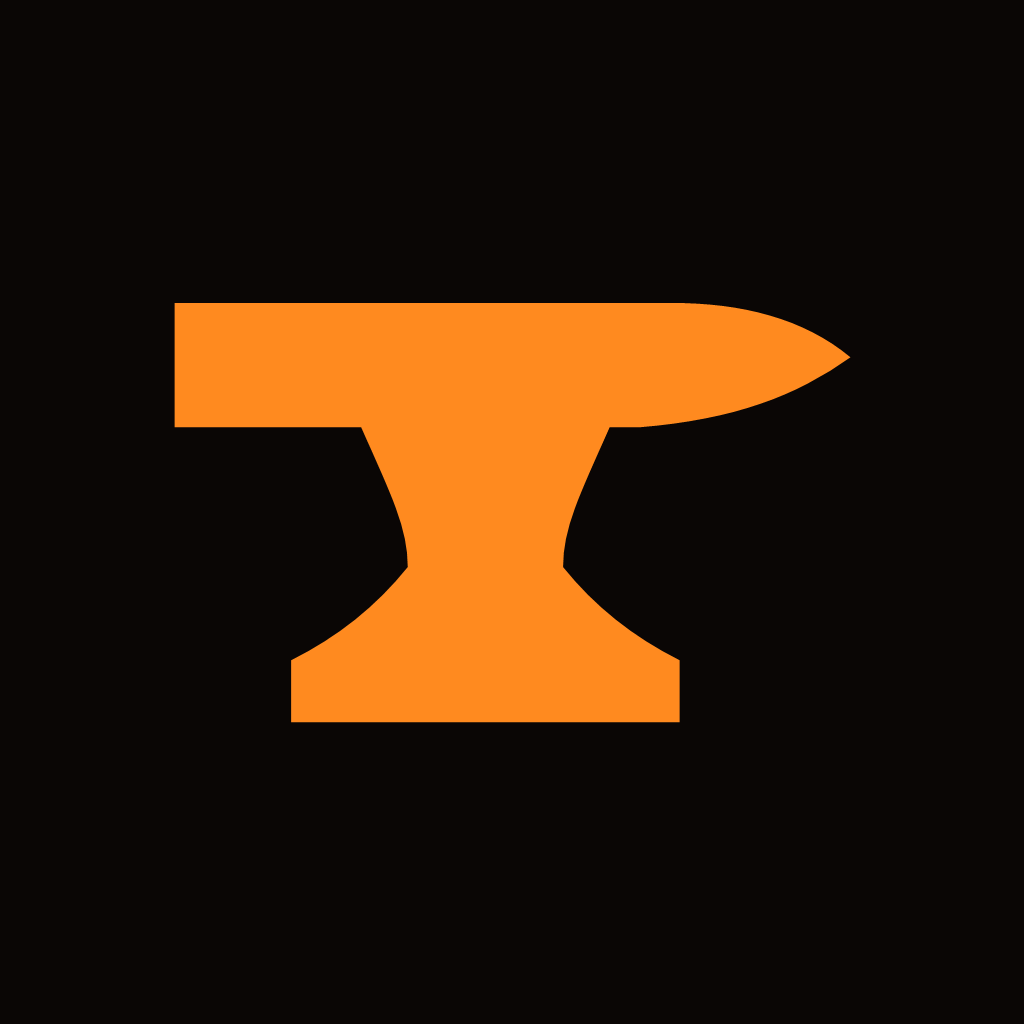
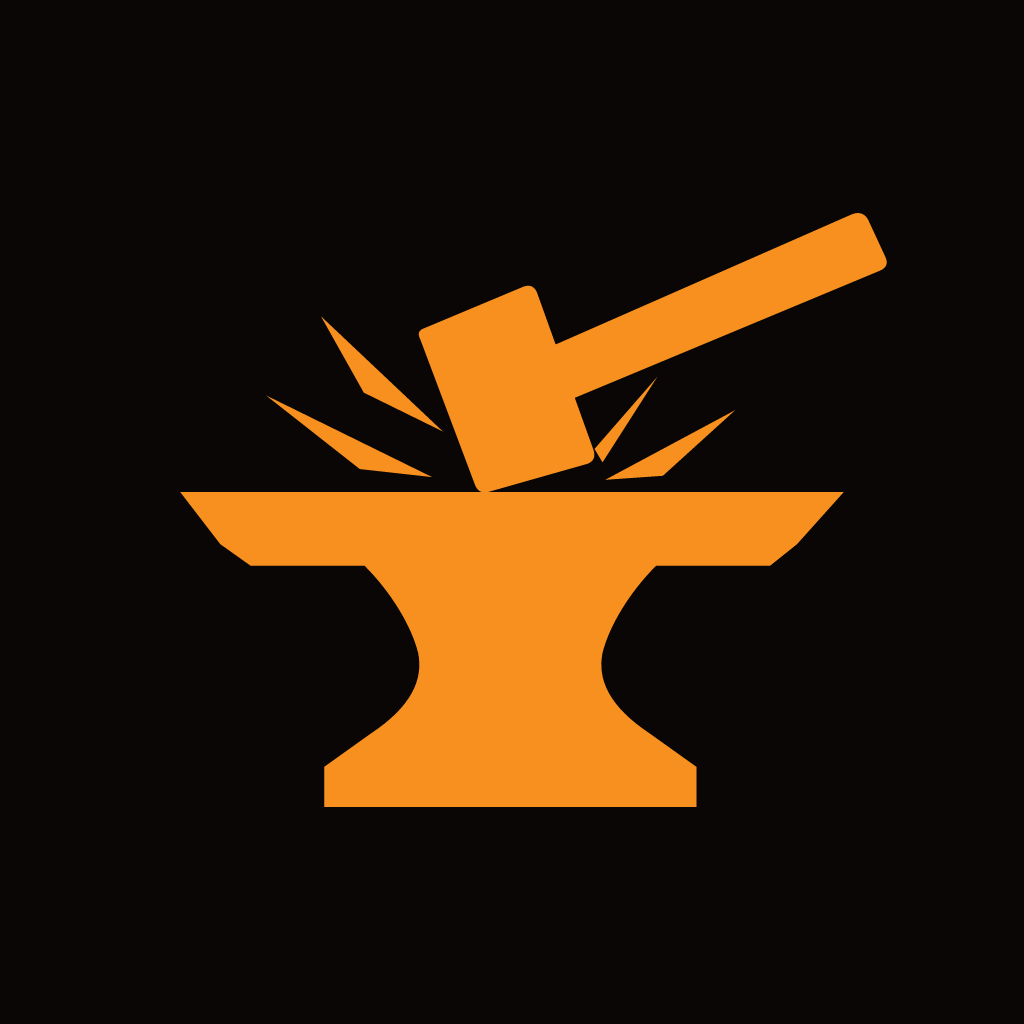
v5.102 - the owner's hammer-and-anvil mark, everywhere the app draws itself.
The full mark (hammer, anvil, sparks) replaces LOGO, so the launch panel and the
welcome screen carry it. The anvil alone, from the same drawing, replaces ANVIL in
its 100-unit box at the same width and centre, so the header mark, the set button,
the watermark behind the week, the splash glyph and the theme icon all follow with
no caller touched. Launcher and home-screen PNGs are re-rendered from the vector
at 1024, 512, 192 and 180 (orange on the dark ground, like before), plus an
anvil-only 192 for anywhere a flat single-colour glyph is wanted.

Changed region(s): [[0.1562, 0.1875, 0.875, 0.8125]]

diff --git a/index.html b/index.html
@@ -2683,7 +2683,7 @@ body.wcon{overflow:hidden;}
         <g class="i">
           <g class="gy gy-dark"><path d="M50 34.5l10 10-10 10-10-10z" fill="none" stroke="currentColor" stroke-width="1.7"/><path d="M50 40.5l4 4-4 4-4-4z" fill="currentColor"/></g>
           <g class="gy gy-light" stroke="currentColor" stroke-width="1.9" stroke-linecap="round"><path d="M50 36v28M38 43l24 14M62 43L38 57M50 41L53.2 37.8M50 41L46.8 37.8M50 59L53.2 62.2M50 59L46.8 62.2M42.2 45.5L41.1 41.1M42.2 45.5L37.9 46.6M57.8 54.5L58.9 58.9M57.8 54.5L62.1 53.4M57.8 45.5L62.1 46.6M57.8 45.5L58.9 41.1M42.2 54.5L37.9 53.4M42.2 54.5L41.1 58.9"/></g>
-          <g class="gy gy-forge" transform="translate(50 50) scale(1.3) translate(-9.8 -12.05)"><path d="M0.6 9.4L6.5 5.9H19v2.3l-5.2 1.2-.9 4.8 4.2 2v2H3.4v-2l4.2-2-.9-4.8L3.2 10z" fill="currentColor"/></g>
+          <g class="gy gy-forge" transform="translate(50 50) scale(1.3) translate(-10 -10) translate(-2.6 -6.7) scale(0.0202)"><path d="M130 590H1120L1050 668L1010 700H840C800 740 770 790 760 830C752 870 770 910 830 950L900 1000V1060H345V1000L415 950C475 910 493 870 485 830C475 790 445 740 405 700H235L190 668Z" fill="currentColor"/></g>
           <g class="gy gy-moon"><path d="M50 36.5l2.9 10.6L63.5 50l-10.6 2.9L50 63.5l-2.9-10.6L36.5 50l10.6-2.9z" fill="currentColor"/></g>
         </g>
       </svg>
@@ -3934,7 +3934,7 @@ var THEME_IC={
   // The same barbed flake as FLAKE further down, redrawn for this table's 20-unit box rather
   // than the 100-unit one the glyphs use - same arms, same proportions, half the scale.
   light:'<svg viewBox="0 0 20 20"><path d="M10 2.6v14.8M3.6 6.3l12.8 7.4M16.4 6.3L3.6 13.7M10 5.24L11.68 3.56M10 5.24L8.32 3.56M10 14.76L11.68 16.44M10 14.76L8.32 16.44M5.89 7.6L5.28 5.3M5.89 7.6L3.59 8.21M14.11 12.4L14.72 14.7M14.11 12.4L16.41 11.79M14.11 7.6L16.41 8.21M14.11 7.6L14.72 5.3M5.89 12.4L3.59 11.79M5.89 12.4L5.28 14.7"/></svg>',
-  forge:'<svg viewBox="0 0 20 20"><g transform="translate(0.9 0.6) scale(0.94)"><path d="M0.6 9.4L6.5 5.9H19v2.3l-5.2 1.2-.9 4.8 4.2 2v2H3.4v-2l4.2-2-.9-4.8L3.2 10z"/></g></svg>',
+  forge:'<svg viewBox="0 0 20 20"><g transform="translate(-2.6 -6.7) scale(0.0202)"><path d="M130 590H1120L1050 668L1010 700H840C800 740 770 790 760 830C752 870 770 910 830 950L900 1000V1060H345V1000L415 950C475 910 493 870 485 830C475 790 445 740 405 700H235L190 668Z"/></g></svg>',
   moon:'<svg viewBox="0 0 20 20"><path d="M10 2.4l2.1 5.5 5.5 2.1-5.5 2.1-2.1 5.5-2.1-5.5L2.4 10l5.5-2.1z"/></svg>'
 };
 var THEME_BAR={dark:'#08090c',light:'#eef1f4',forge:'#0a0605',moon:'#0b0812'};
@@ -8813,7 +8813,7 @@ function insAnimShow(exId){
   var fr=function(t){a[0](cf,t);a[1](cs,t);insAnimRAF=requestAnimationFrame(fr);};
   insAnimRAF=requestAnimationFrame(fr);
 }
-var APPV='v5.101';
+var APPV='v5.102';
 var DB={logs:[],active:{},custom:{},slots:{},plan:[],cex:{},up:{},upSkip:{},extra:[],dayEdit:{},vOvr:{},walks:[],walkRun:null};
 async function loadDB(){
   var d=await Store.get(KEY),bak=null;
@@ -10290,7 +10290,14 @@ var OU_EYE={x:'55.37',y:'16.12',r:'1.5'};
 // wider than the waist.
 // Content spans x 10-97 and y 26-80, so its centre is 53.5,53 - that is what anvilAt puts
 // on the middle of the box. Nothing should hand-write that transform again.
-var ANVIL='M10 26L74 26C83 26 91 28 97 33C90 38 82 41 70 42L66 42C62 51 60 55 60 60C64 65 69 69 75 72L75 80L25 80L25 72C31 69 36 65 40 60C40 55 38 51 34 42L30 42L10 42Z';
+// v5.102: the owner's own mark. Same 100-unit box, same width (x 10-97) and the same centre
+// (53.5,53) as the old anvil, so anvilAt and every caller are untouched. It is shorter than
+// the old one (y 32-74 instead of 26-80): a flat top slab with bevelled ends, a waist that
+// curves in and a foot that flares back out. The full mark with the hammer lives in LOGO.
+var ANVIL='M10 32.4L97 32.4L90.9 39.2L87.4 42L72.4 42C68.9 45.5 66.3 49.9 65.4 53.4C64.7 57 66.3 60.5 71.5 64L77.7 68.4L77.7 73.7L28.9 73.7L28.9 68.4L35.1 64C40.3 60.5 41.9 57 41.2 53.4C40.3 49.9 37.7 45.5 34.2 42L19.2 42L15.3 39.2Z';
+// The same anvil at the size it was traced (a 1240 box), for the full mark below and for the
+// small theme glyphs that scale it themselves.
+var ANVIL_RAW='M130 590H1120L1050 668L1010 700H840C800 740 770 790 760 830C752 870 770 910 830 950L900 1000V1060H345V1000L415 950C475 910 493 870 485 830C475 790 445 740 405 700H235L190 668Z';
 // ============================================================
 // THE LOGO - one definition, one place
 // ============================================================
@@ -10302,6 +10309,19 @@ var ANVIL='M10 26L74 26C83 26 91 28 97 33C90 38 82 41 70 42L66 42C62 51 60 55 60
 // Drawn in currentColor so it takes the theme's own gold without being told, and with no
 // hard-coded size - callers set width/height and the viewBox does the rest.
 var LOGO={
+  id:'hammer-anvil-2',
+  // v5.102: the owner's traced mark, in the box it was drawn in. The view box is cropped to the
+  // ink (x 60-1190, y 130-1110) so the mark fills whatever size the caller asks for.
+  vb:'60 130 1130 980',
+  body:
+    '<path d="'+ANVIL_RAW+'"/>'+
+    '<path d="M494 346L642 284Q656 279 662 292L746 526Q752 542 738 548L590 590Q576 594 570 580L488 362Q482 350 494 346Z"/>'+
+    '<path d="M686 372L1132 176Q1148 170 1156 184L1182 240Q1188 254 1174 260L718 450Z"/>'+
+    '<path d="M340 328L522 500L404 442Z"/><path d="M258 446L506 568L398 556Z"/>'+
+    '<path d="M842 418L760 546L748 526Z"/><path d="M958 468L850 566L764 572Z"/>'
+};
+// The previous mark, kept so the drawing notes below still make sense; nothing reads it.
+var LOGO_V1={
   id:'anvil-hammer',
   vb:'0 0 100 100',
   // Painter's order matters and got it wrong the first time: the anvil was drawn LAST, so it

diff --git a/sw.js b/sw.js
@@ -1,5 +1,5 @@
 // Arcanum offline shell
-var CACHE = 'arcanum-v447';
+var CACHE = 'arcanum-v448';
 var SHELL = [
   './',
   './index.html',
